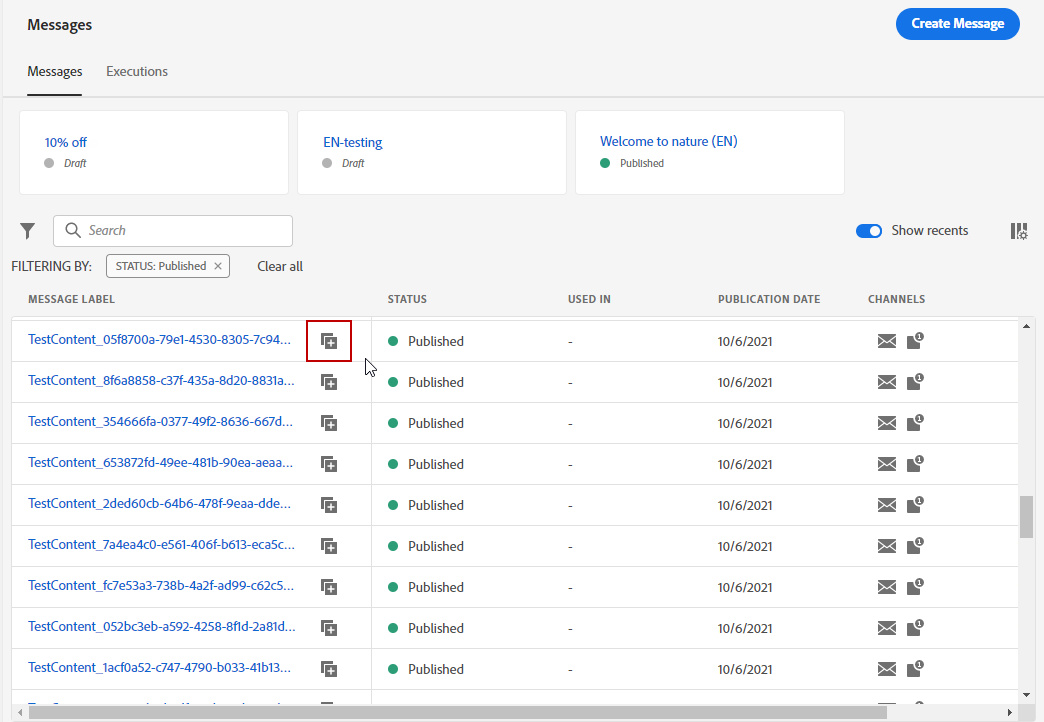
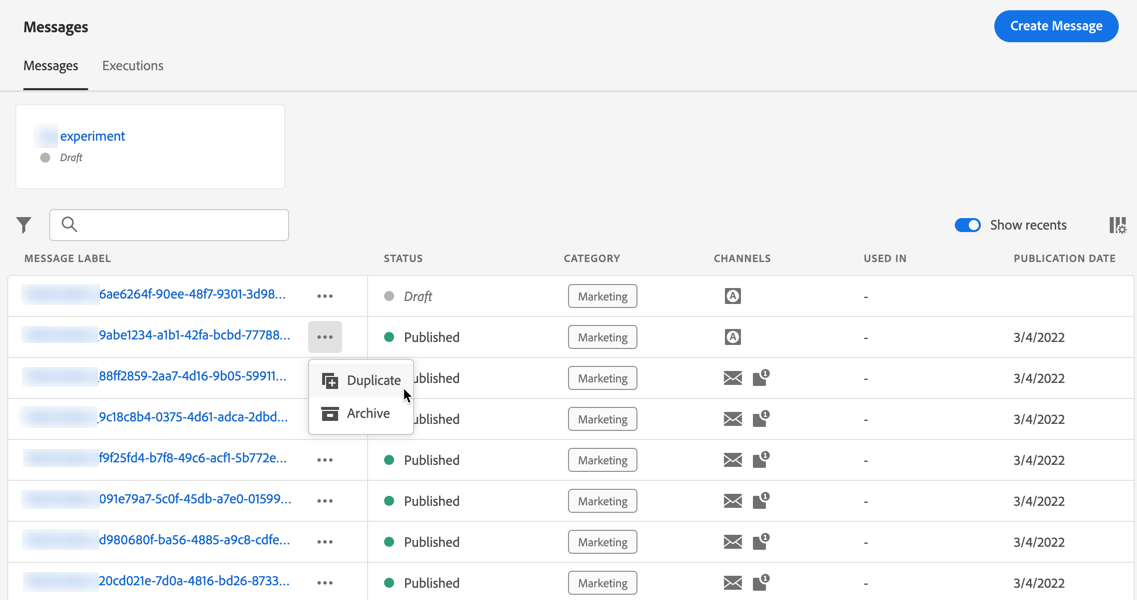
archive feature

diff --git a/help/using/messages/create-message.md b/help/using/messages/create-message.md
@@ -9,6 +9,8 @@ exl-id: 186a43cd-c5eb-4de1-8713-95399d802d36
 ---
 # Create a message {#create-message}
 
+## Access messages {#access-messages}
+
 Messages are available from the **[!UICONTROL Messages]** shortcut on the left navigation. All messages are listed, sorted by publication date (for published messages) or creation date (for draft messages).
 
 >[!NOTE]
@@ -17,13 +19,23 @@ Messages are available from the **[!UICONTROL Messages]** shortcut on the left n
 
 ![](assets/messages-list.png)
 
-Use the **[!UICONTROL Show recents]** toggle to add direct links to the messages you accessed in the last 5 days.
+* Use the **[!UICONTROL Show recents]** toggle to add direct links to the messages you accessed in the last 5 days.
 
-![](assets/show-recent-messages.png)
+   ![](assets/show-recent-messages.png)
 
-Use the filter icon to display only drafted, published or messages being published. You can also search on message label, as below:
+* Use the filter icon to display only drafted, published or messages being published. You can also search on message label, as below:
 
-![](assets/filter-messages.png)
+   ![](assets/filter-messages.png)
+
+* You can archive unused messages to clear the message list using the dedicated icon from the quick actions menu.
+
+   ![](assets/archive-message.png)
+
+   Use the filter icon to display all archived messages and click the **[!UICONTROL Unarchive]** icon to remove an item from the list of archived messages.
+
+   >[!NOTE]
+   >
+   >You cannot open an archived message. You must unarchive it first.
 
 ## Create a new message {#create-new-message}
 
@@ -72,30 +84,25 @@ To create a new message, follow the steps below:
 
 ## Duplicate a message {#duplicate-message}
 
-To create a message from an existing one, use the **[!UICONTROL Duplicate]** button from the message interface. All settings and configuration will be copied to the new  message
+To create a message from an existing one, follow the steps below.
 
-![](assets/message-duplicate.png)
+1. Open the message you want to copy.
 
-You can rename the message before confirming duplication.
+1. Use the **[!UICONTROL Duplicate]** button from the message interface.
 
-![](assets/message-duplicate-confirm.png)
+   ![](assets/message-duplicate.png)
 
-A confirmation message displays at the bottom of the window once the new message is created.
+   All settings and configuration will be copied to the new message.
 
-You can also duplicate a message from the message list, using the dedicated icon.
+1. You can rename the message before confirming duplication.
+
+   ![](assets/message-duplicate-confirm.png)
+
+1. A confirmation message displays at the bottom of the window once the new message is created.
+
+You can also duplicate a message from the message list, using the dedicated icon from the quick actions menu.
 
 ![](assets/message-duplicate-from-list.png)
 
 The same confirmation process applies.
 
-## Archive a message {#archive-message}
-
-You can archive unused messages to clear the message list.
-
-1. From the message list, select **[!UICONTROL Archive]** from the quick actions menu.
-
-1. Confirm archiving.
-
-1. Use the filter icon to display the archived messages.
-
-1. Click the **[!UICONTROL Unarchive]** icon to remove it from the list of archived messages.
